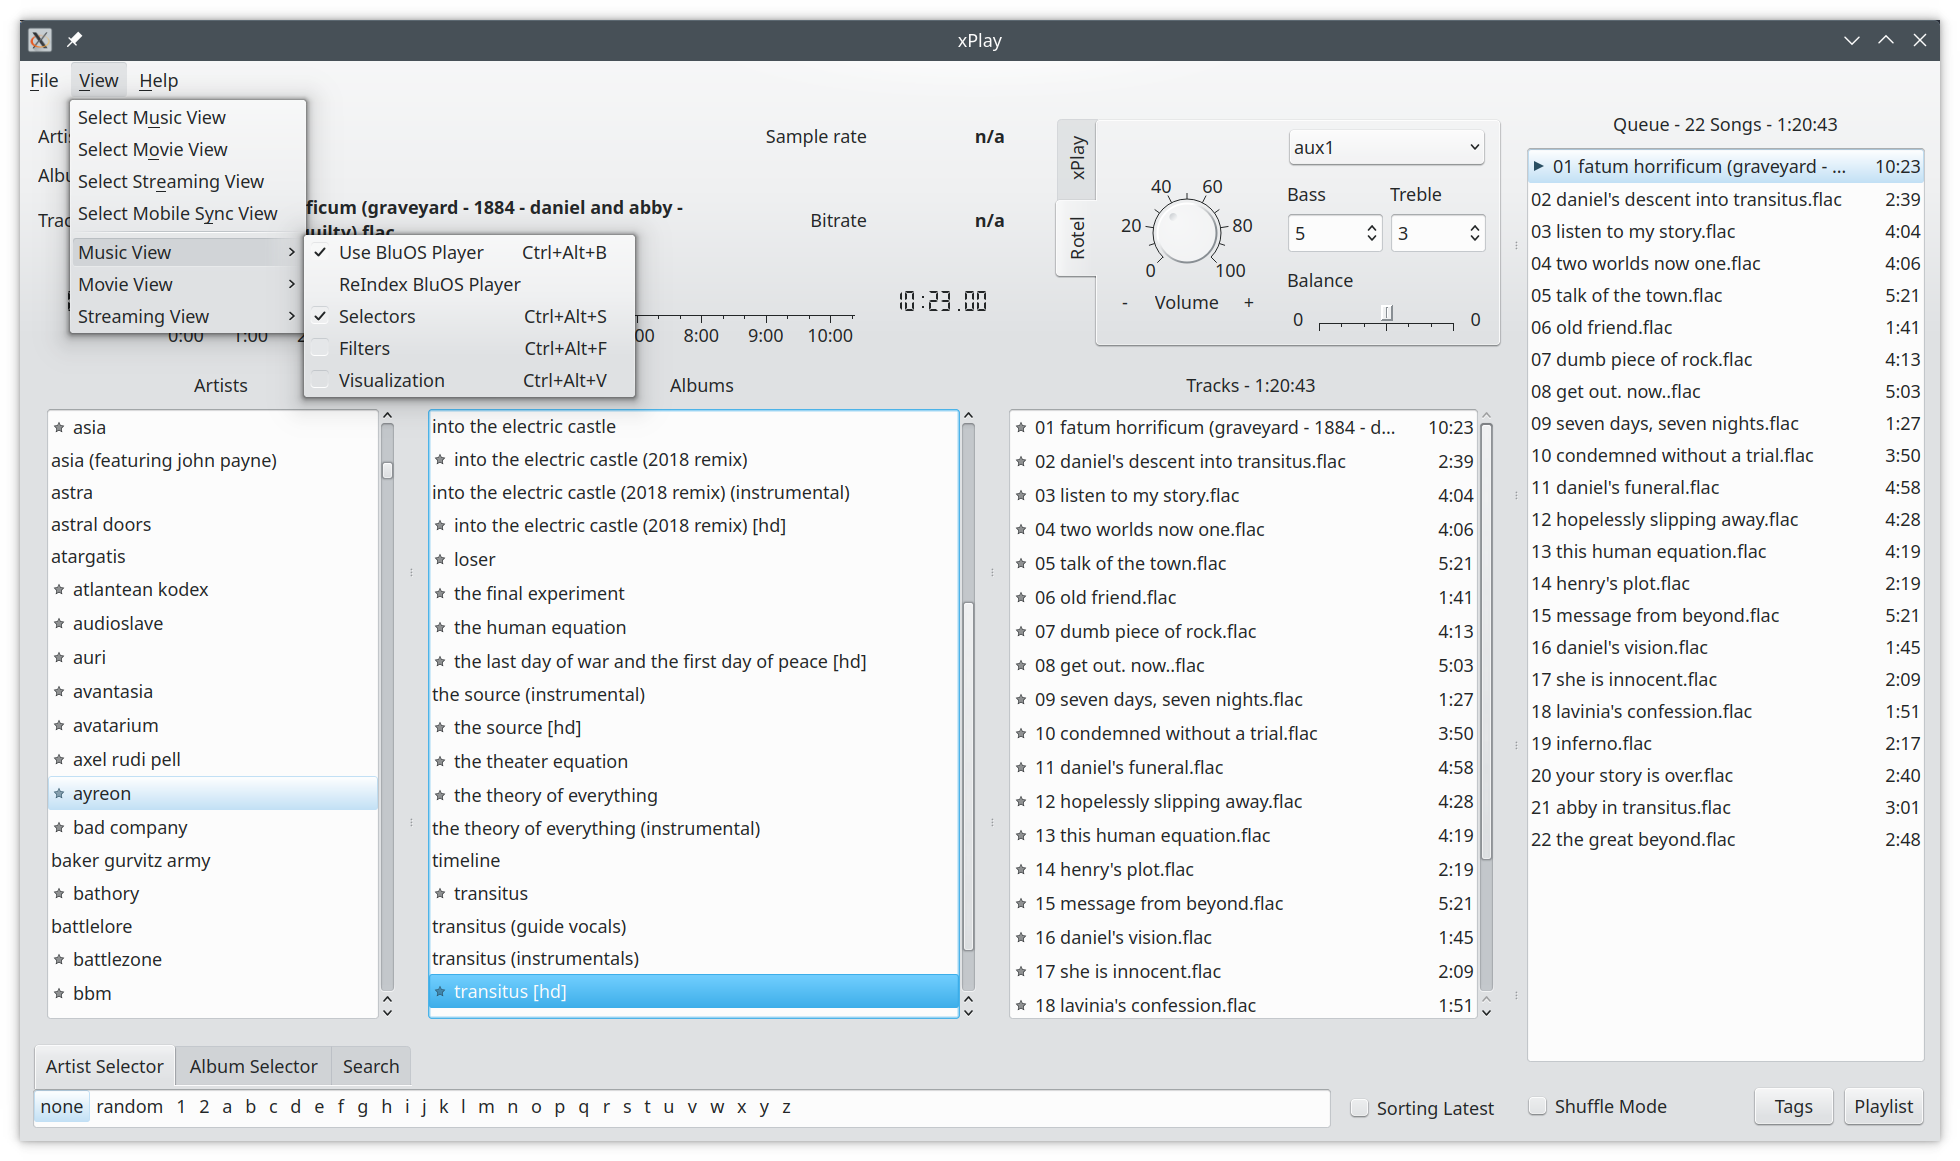
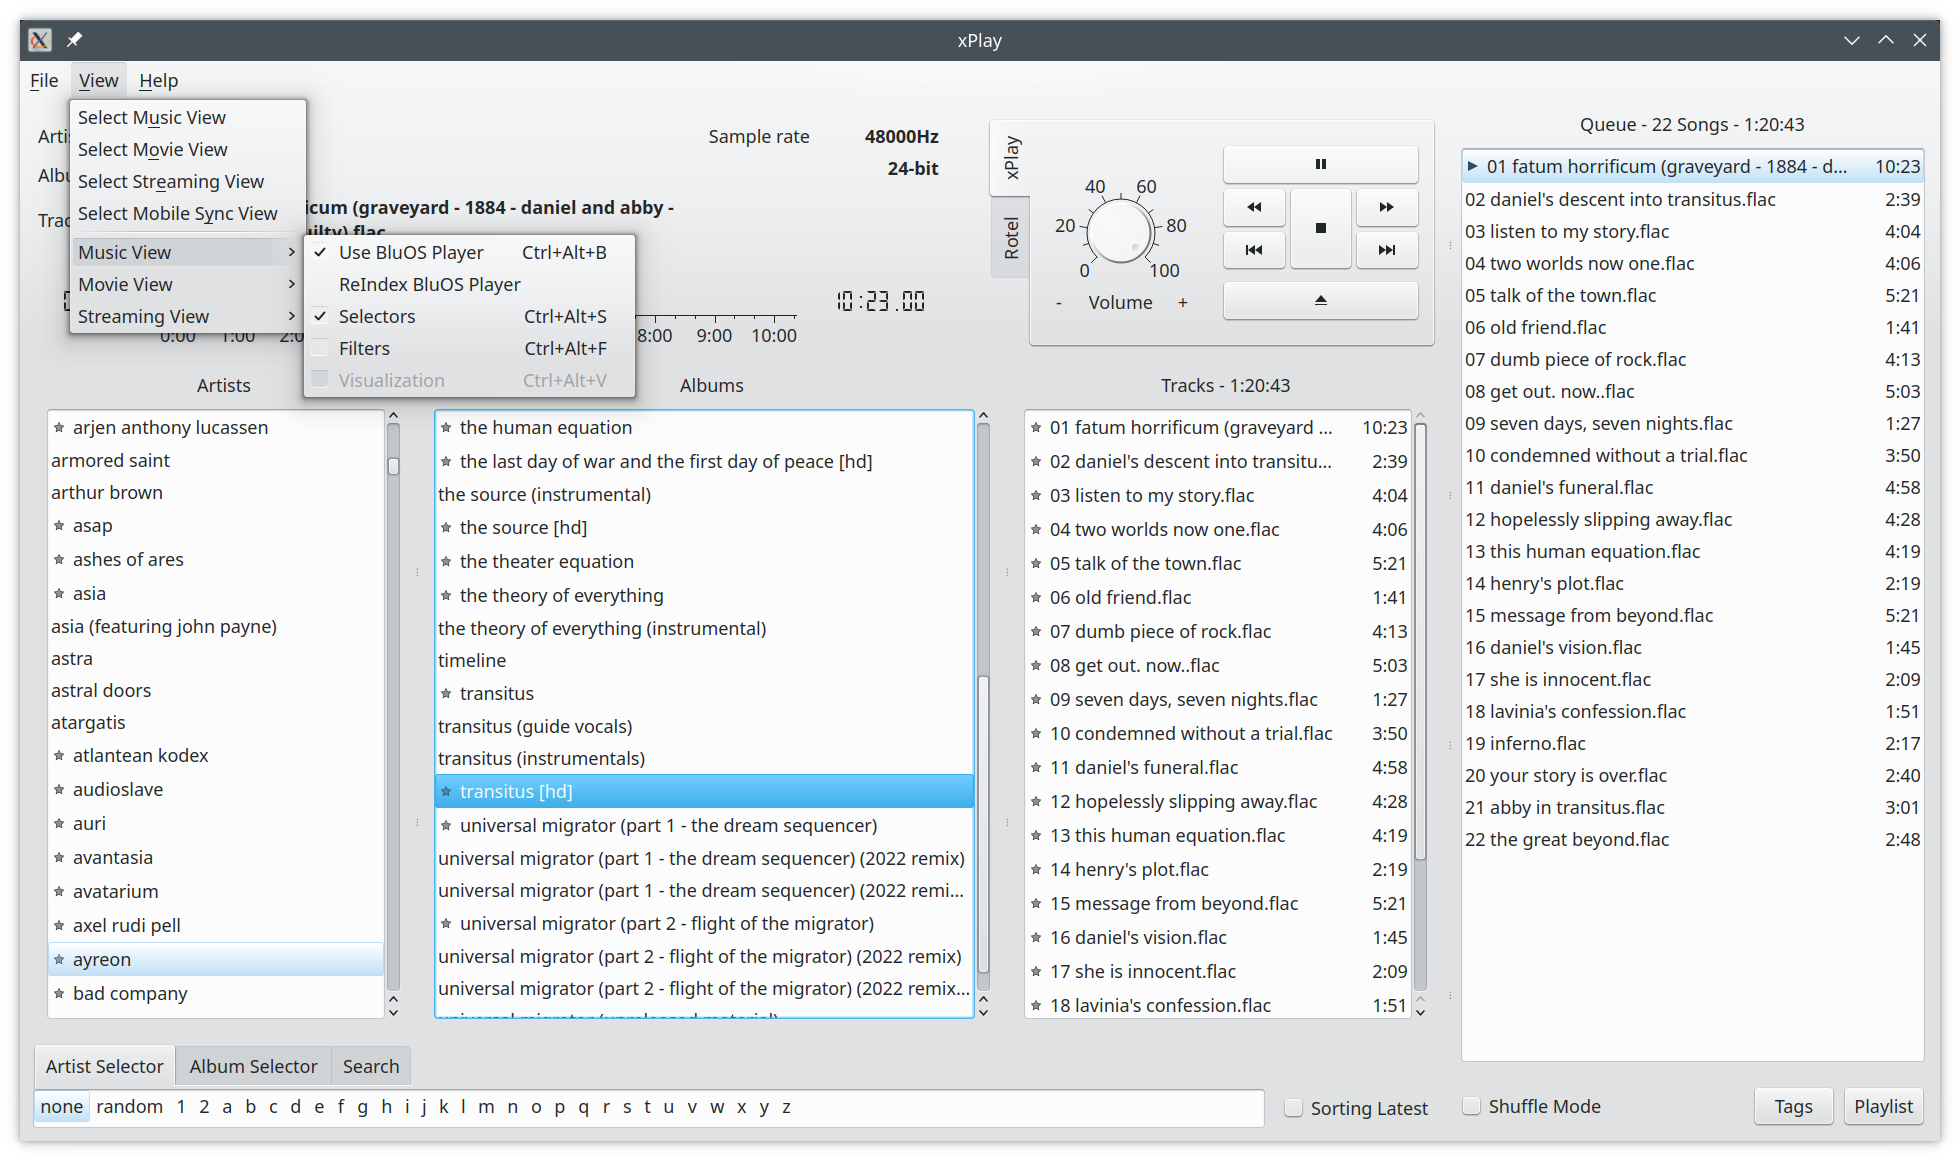
Update CHANGELOG.md, screenshots and version number.

diff --git a/xPlay.cpp b/xPlay.cpp
@@ -151,7 +151,7 @@ int main(int argc, char* argv[])
 {
     QApplication playApp(argc, argv);
     QApplication::setApplicationName("xPlay");
-    QApplication::setApplicationVersion("0.14.0");
+    QApplication::setApplicationVersion("0.14.1");
     QCommandLineParser playAppParser;
     if (handleCommandLine(playApp, playAppParser)) {
         // Exit if the command line was handled.

diff --git a/CHANGELOG.md b/CHANGELOG.md
@@ -1,11 +1,14 @@
 # Changelog
 
 
-## Unreleased
+## 0.14.1 - 2023-01-21
 
-- Disable repeat queue for BluOS player libraries.
-- Extract partial track info for BluOS player libraries.
-- Disable music visualization for BluOS player libraries (missing music data feed).
+- Restore music player volume when switching between local and BluOS player library.
+- Use separate timer for BluOS player library reindexing.
+- Disable repeat queue for BluOS player library.
+- Extract partial track info for BluOS player library.
+- Disable music visualization for BluOS player library (missing music data feed).
+- Fix scanning progress when interrupting a full scan by switching to BluOS player library.
 
 
 ## 0.14.0 - 2023-01-04
